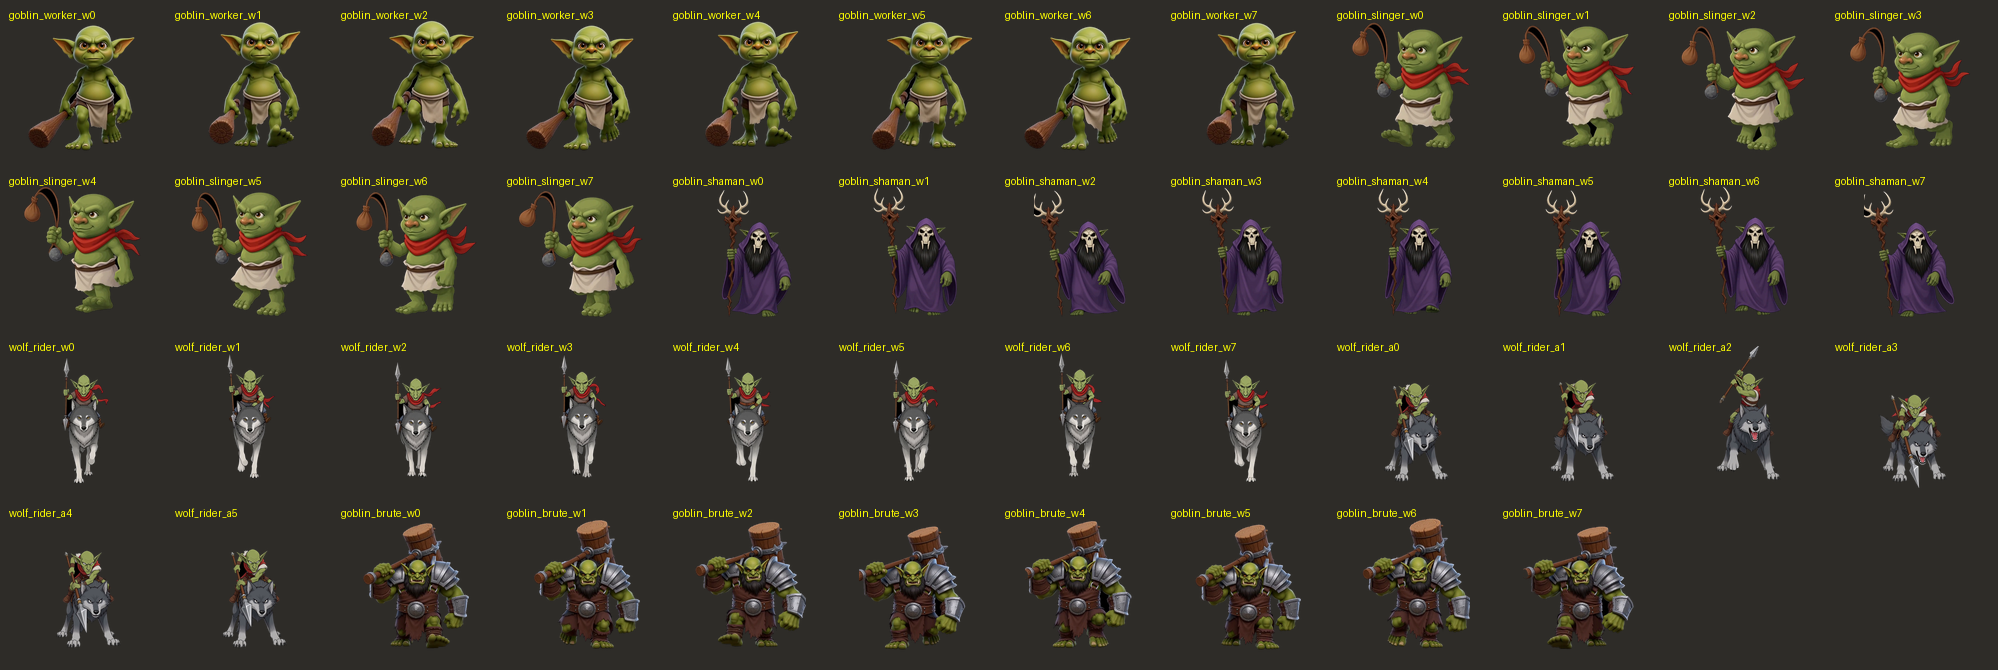
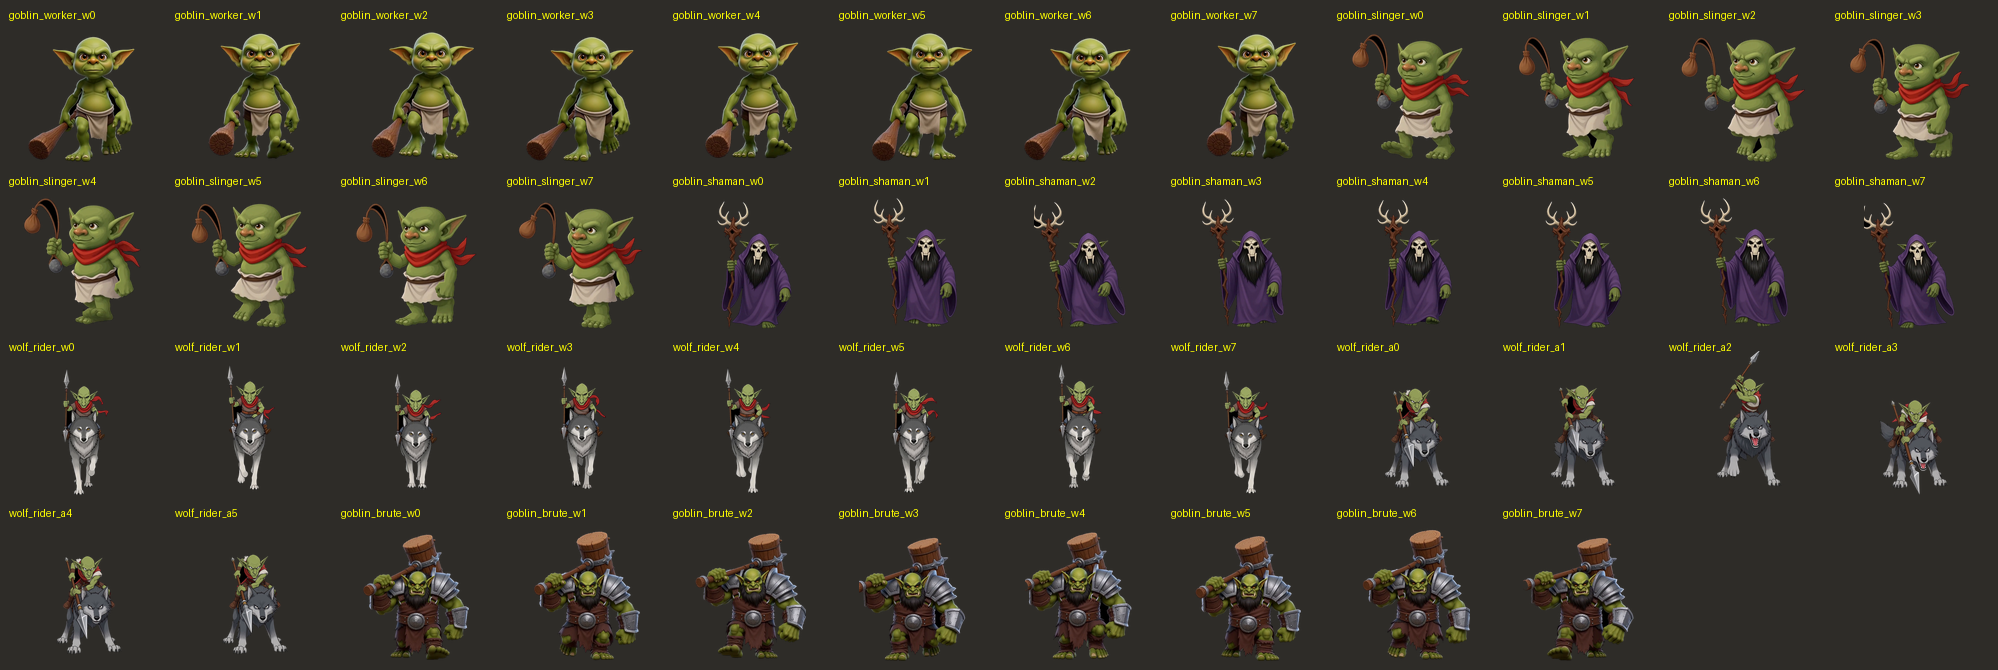
怪物战斗表现返修：脚底贴地+体型放大——mob_video2frames 取消联合包围盒底部 5% 外扩（外扩带此前被当脚底钉进格，是角色踩在影子上的腾空根因），钉脚隙 8→3px，重抽 5 怪 walk+狼骑 attack 并重打包 battle_mob_anim_v1；Monster 显示高度 r*2.85→3.35、飘字锚点 2.05→2.6；构建部署 kingdom-watch，线上近景验证脚掌全部落在影子椭圆上

diff --git a/KingdomWatch/assets/scripts/battle/Monster.ts b/KingdomWatch/assets/scripts/battle/Monster.ts
@@ -101,7 +101,7 @@ export class Monster {
       this.art = new BattleSprite(this.node, 'battle_mobs_v2', () => { this.g.enabled = false; });
     }
     this.art.node.setPosition(0, -r * 0.82, 0);
-    this.art.show(this.def.id, r * 2.85);
+    this.art.show(this.def.id, r * 3.35);   // 显示高度≈3.35×半径（用户反馈 2.85 太瘦弱）
     getMobAnims(a => { this.anims = a; });
     Tween.stopAllByTarget(this.art.node);
     this.art.node.setScale(1, 1, 1); this.art.node.angle = 0;
@@ -114,7 +114,7 @@ export class Monster {
     const clip = this.anims?.get(this.def.id);
     if (clip && clip.walk.length) {
       // 序列帧模式：攻击一次性 > 步态循环（速度映射播放速率，减速同步变慢）> 待机第 0 帧
-      const h = this.def.radius * 2.85;
+      const h = this.def.radius * 3.35;
       if (this.atkAnimT > 0 && clip.attack.length) {
         this.atkAnimT = Math.max(0, this.atkAnimT - dt);
         const p = 1 - this.atkAnimT / ATK_ANIM;
@@ -333,7 +333,7 @@ export class Monster {
     if (this.shockT > 0) amount *= 1 + this.shockAmp;
     if (this.vulnT > 0) amount *= 1 + this.vulnAmp;
     this.hp -= amount;
-    this.ctx.dmgNumber(this.x, this.y + this.def.radius * 2.05,
+    this.ctx.dmgNumber(this.x, this.y + this.def.radius * 2.6,
       String(Math.round(amount)), crit ? '#FF3030' : '#FFFFFF', crit, { target: this, amount, periodic: killerId === 'burn' });
     this.ctx.impact?.(this.x, this.y + this.def.radius * 0.4, killerId, heavy || crit || this.hp <= 0 && !!this.def.elite, impactAngle);
     this.flash();

diff --git a/美术/tools/mob_video2frames.py b/美术/tools/mob_video2frames.py
@@ -106,8 +106,8 @@ def main():
     L = min(b[0] for b in ws); T = min(b[1] for b in ws)
     R = max(b[2] for b in ws); B = max(b[3] for b in ws)
     mw, mh = int((R - L) * args.margin), int((B - T) * args.margin)
-    L, T = max(0, L - mw), max(0, T - mh)
-    R, B = min(arr.shape[2], R + mw), min(arr.shape[1], B + mh)
+    L, T = max(0, L - mw), max(0, T - 2 * mh)   # 顶部/左右留裕量防帧间抖动
+    R, B = min(arr.shape[2], R + mw), min(arr.shape[1], B)   # 底部不外扩：内容下缘即脚底基线（外扩会整体腾空）
     print('union bbox: (%d,%d)-(%d,%d)' % (L, T, R, B))
 
     n = args.cells
@@ -117,9 +117,9 @@ def main():
 
     S = args.size
     cw, ch = R - L, B - T
-    scale = min((S - 8) / cw, (S - 16) / ch)   # 上下留 8/8，底部再钉脚
+    scale = min((S - 8) / cw, (S - 16) / ch)   # 顶部留 16 裕量；底部只留 foot_margin 钉脚隙
     dw, dh = round(cw * scale), round(ch * scale)
-    foot_margin = 8
+    foot_margin = 3   # 脚底离格底的唯一间隙（此前 8+底部外扩导致角色踩在影子上的腾空感）
 
     cells = []
     for k, fi in enumerate(picks):
